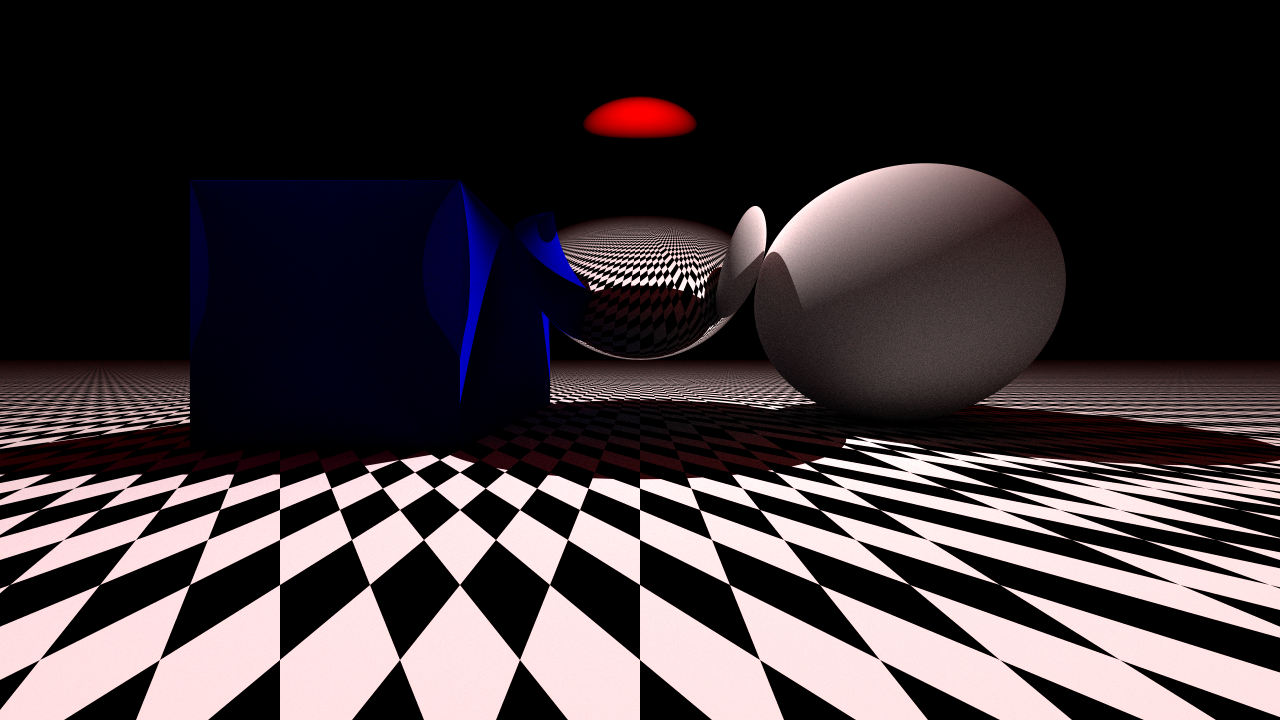
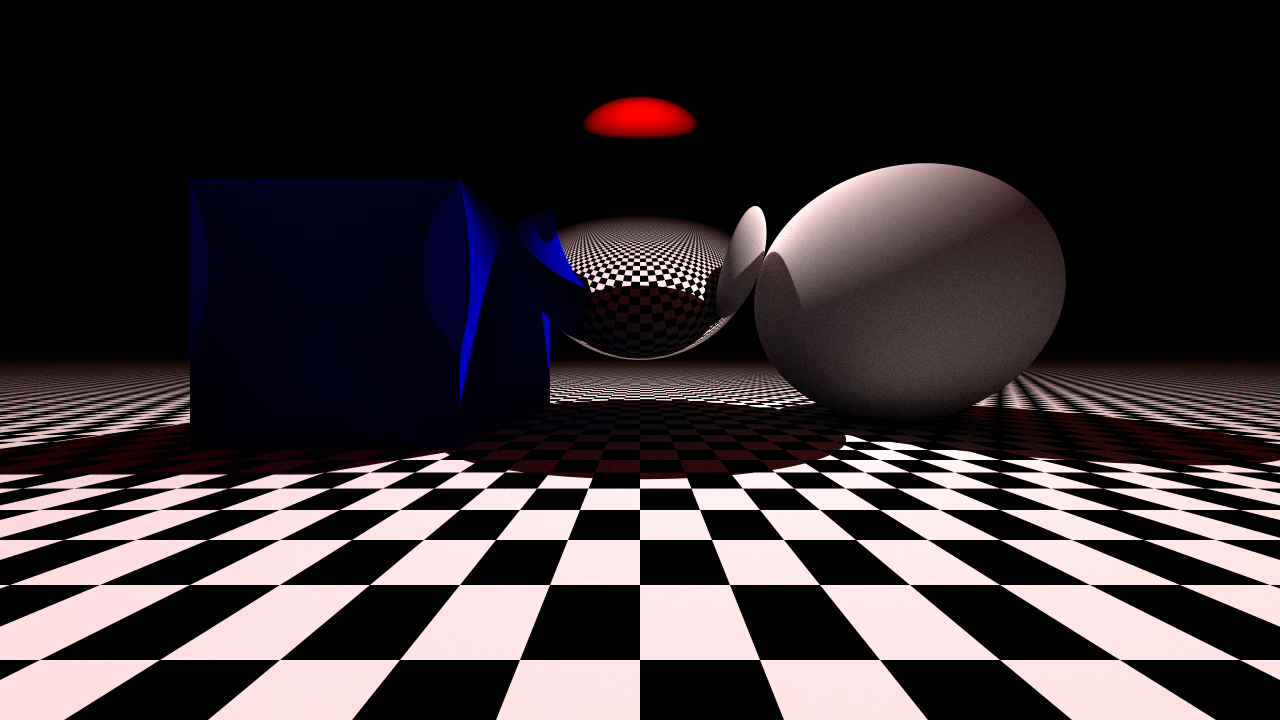
correct uvs

Changed region(s): [[0.0, 0.5194, 1.0, 1.0], [0.4375, 0.3056, 0.5625, 0.4889], [0.0, 0.9167, 0.0312, 0.9778]]

diff --git a/src/object/quad.rs b/src/object/quad.rs
@@ -49,19 +49,19 @@ impl Hittable for Quad {
         }
 
         let point = ray.at(t);
-        let p = point - self.a;
-        let ab = self.b - self.a;
-        let ac = self.c - self.a;
-        let area_abc = ab.cross(&ac).length();
-        let area_pbc = p.cross(&ac).length();
-        let area_pca = ab.cross(&p).length();
-
-        // Use barycentric coordinates to interpolate u, v
-        let u = area_pbc / area_abc;
-        let v = area_pca / area_abc;
-
         let front_face = ray.direction.dot(&normal) < 0.0;
         let normal = if front_face { normal } else { -normal };
+
+        let ad = self.d - self.a;
+        let ap = point - self.a;
+        let u = ad.dot(&ap) / ad.length_squared();
+        let ab = self.b - self.a;
+        let bp = point - self.b;
+        let v = ab.dot(&bp) / ab.length_squared();
+
+        // if u < 0.0 || u > 1.0 || v < 0.0 || v > 1.0 {
+        //     return None;
+        // }
 
         Some(HitRecord {
             point,

diff --git a/src/pathtracer/mod.rs b/src/pathtracer/mod.rs
@@ -33,7 +33,7 @@ impl PathTracer {
                             self.height as FloatSize,
                             &mut rand_state,
                         );
-                        let is_left = x < self.width / 2;
+                        let _is_left = x < self.width / 2;
                         let color = scene.trace_ray(&ray, 10, &mut rand_state, false);
                         row[x] += color.scale(1.0 / self.samples as FloatSize);
                     });
